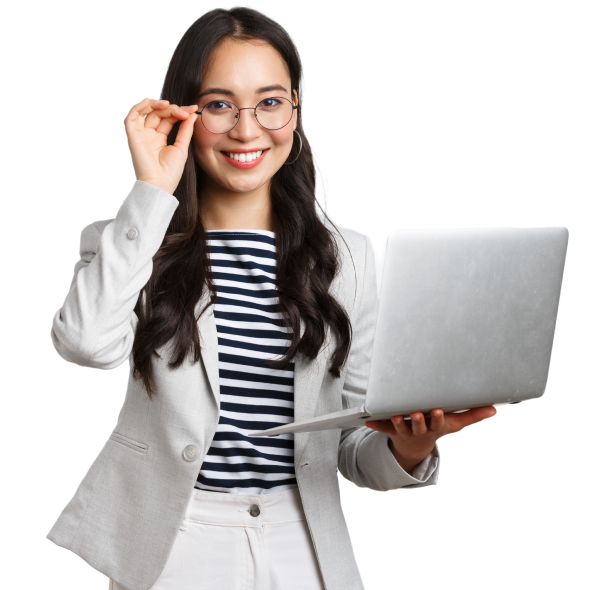
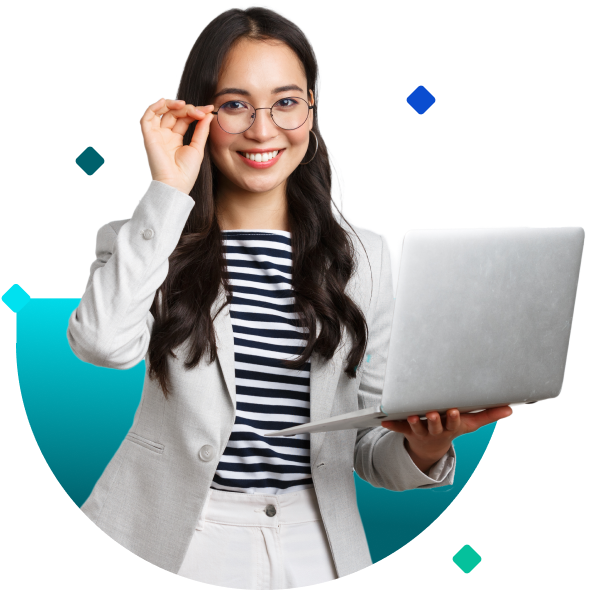
Bottom section done

diff --git a/src/components/widgets/BottomSection.tsx b/src/components/widgets/BottomSection.tsx
@@ -1,19 +1,59 @@
 import Wrapper from "@/components/shared/Wrapper";
 import Image from "next/image";
 import female from "../../assets/images/female.png"
+import polygonIcon from "../../assets/images/polygonIcon.png"
 
 const BottomSection = () => {
+
+    const checkBTN = [
+        {
+            name: "Product Ownership",
+            icon: polygonIcon
+        },
+        {
+            name: "Freelacing",
+            icon: polygonIcon
+        },
+        {
+            name: "Global Marketing by DAO",
+            icon: polygonIcon
+        },
+        {
+            name: "Boosting Economy",
+            icon: polygonIcon
+        },
+    ]
+
     return (
         <section>
             <Wrapper>
-                <div className="flex">
-                    <div className="basis-6/12">
-                        <div className="">
-                            <Image src={female} alt="Corporate Women" width={500} height={600} />
-                        </div>
+                <div className="flex flex-col md:flex-row mt-10">
+                    {/* Left Box */}
+                    <div className="basis-6/12 flex justify-center items-center" >
+                        <Image src={female} alt="Corporate Women" className="" />
+                        {/* <div className="w-6 h-6 bg-teal-400 rounded-md origin-center rotate-45 absolute left-10" />
+                        <div className="w-6 h-6 bg-blue-700 rounded-md origin-center rotate-45 absolute top-20 left-[440px]" />
+                        <div className="w-6 h-6 bg-teal-800 rounded-md origin-center rotate-45 absolute top-36 left-32" />
+                        <div className="w-6 h-6 bg-green-400 rounded-md origin-center rotate-45 absolute bottom-4 left-[480px]" /> */}
                     </div>
 
-                    <div className="basis-6/12 bg-red-400"></div>
+                    {/* Rigth Box */}
+                    <div className="basis-6/12 flex flex-col justify-center items-center">
+                        <h3 className="font-bold text-4xl">
+                            The Outcome for Participants of the Program
+                        </h3>
+
+                        <p className="text-slate-700 my-6">
+                            As a graduate of this program, you will own valuable products such as Full-Stack App Templates, AR and VR Experiences, and APIs that are marketed globally by the Panaverse DAO. You will also have the opportunity to offer your services at a rate of $50 per hour, providing a path to financial stability while contributing to the growth of Pakistan's software exports.
+                        </p>
+
+                        <div className="flex flex-wrap flex-col md:flex-row md:items-center">
+                            {checkBTN.map((item) => (<div className="flex items-center gap-x-3 mb-8 md:w-[50%]">
+                                <Image src={item.icon} alt="Corporate Women" className="" />
+                                <h4 className="font-medium text-lg">{item.name}</h4>
+                            </div>))}
+                        </div>
+                    </div>
                 </div>
             </Wrapper>
         </section>

diff --git a/src/app/globals.css b/src/app/globals.css
@@ -2,9 +2,6 @@
 @tailwind components;
 @tailwind utilities;
 
-.abc{
-  clip-path: circle(50% at 50% 10%);
-}
 /* :root {
   --max-width: 1100px;
   --border-radius: 12px;
